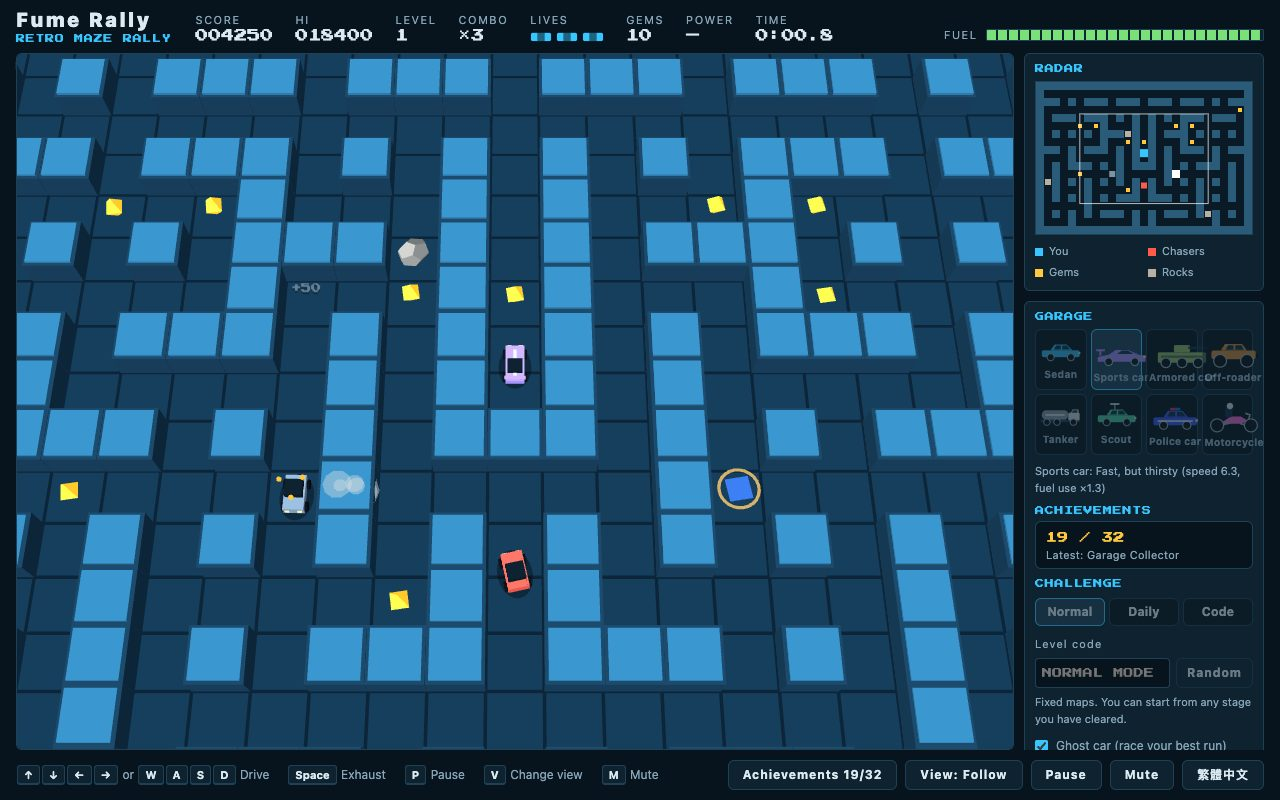
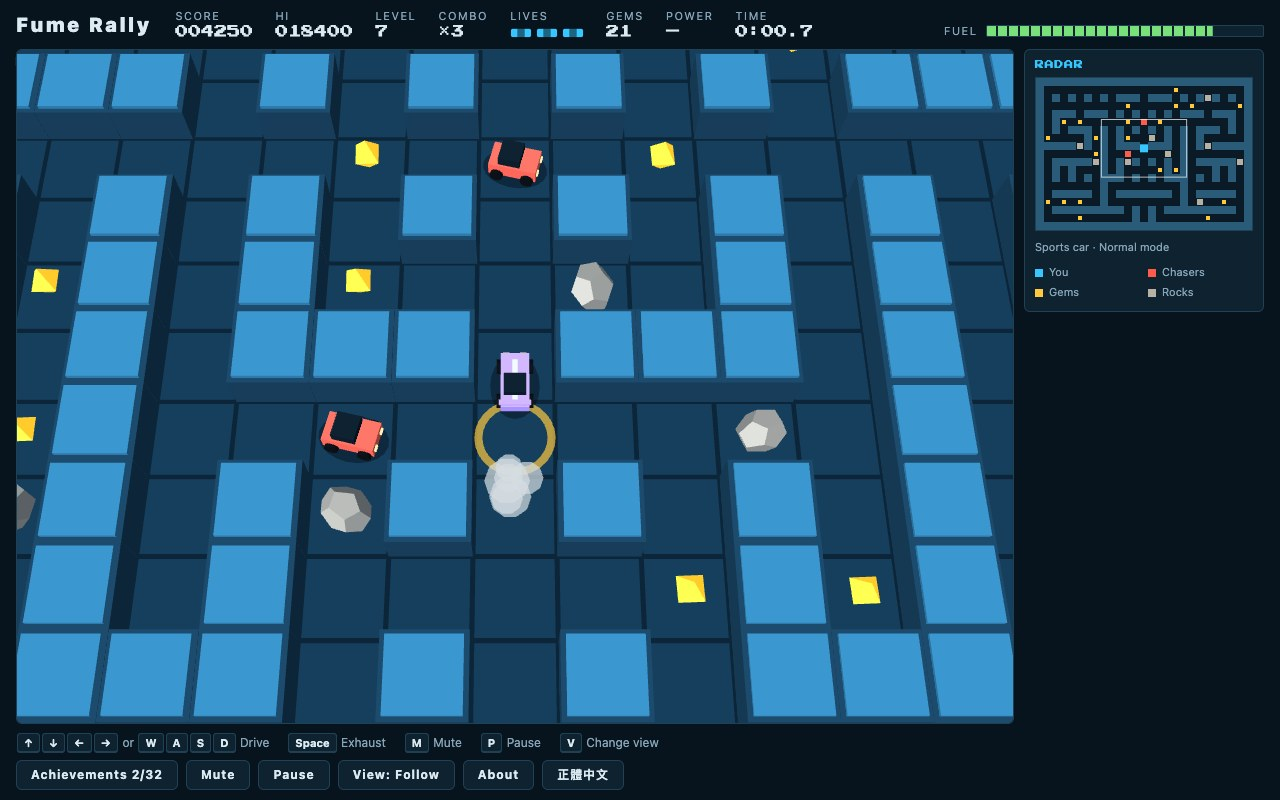
[doc] Refresh the README screenshot, drop the screenshots section and sort the folder list

diff --git a/README.md b/README.md
@@ -75,17 +75,9 @@ own leaderboard. Your fastest flawless clear of each stage is saved as a **ghost
 There are **32 achievements** to collect: seven stage trophies and 25 for everything from your first
 crash to a ten-thousand-point run.
 
-## Screenshots
-
-| Title screen                                | Achievements                                       |
-| ------------------------------------------- | -------------------------------------------------- |
-| ![Title screen](docs/screenshots/title.jpg) | ![Achievements](docs/screenshots/achievements.jpg) |
-
-<p align="center"><img src="docs/screenshots/mobile.jpg" alt="Playing on a phone" width="260"></p>
-
 ## Features
 
-- Seeded, symmetric mazes; the same level or code always plays the same.
+- Seeded, symmetric mazes that start small and open and grow twistier with the level; the same level or code always plays the same.
 - Eight cars with their own 3D models and abilities, and 32 achievements.
 - Daily challenge, shareable level codes, per-board leaderboards, flawless best times and ghost replay.
 - Full-map radar, follow and full-map cameras, screen shake (off with reduced-motion), floating score pop-ups.
@@ -113,19 +105,19 @@ The build output is one HTML file with all code, styles and the pixel font inlin
 double-clicking it.
 
 ```
+docs/       architecture notes and the screenshot
 src/
-  config/   constants, car definitions, achievement definitions
-  core/     pure, tested logic (RNG, maze generation, pathfinding, challenge codes, events)
-  sim/      the game rules: movement, chasers, fuel, gems, power-ups, phases (no DOM, no Three.js)
-  input/    keyboard, swipe and on-screen pad → one wanted direction
-  game/     glue: the game loop, progress, achievements, challenge selection
-  render/   Three.js scene, meshes, car models, effects and cameras
-  ui/       HUD, banners, panels, dialogs, icons
   audio/    synthesised sound effects and the mute setting
-  storage/  versioned records, ghosts and preferences in localStorage
+  config/   constants, car definitions, achievement definitions, About credits
+  core/     pure, tested logic (RNG, maze generation, pathfinding, challenge codes, events)
+  game/     glue: the game loop, progress, achievements, challenge selection
   i18n/     message tables (zh-TW, en)
-tests/      unit tests, plus parity checks against the original prototype
-docs/       architecture notes and screenshots
+  input/    keyboard, swipe and on-screen pad → one wanted direction
+  render/   Three.js scene, meshes, car models, effects and cameras
+  sim/      the game rules: movement, chasers, fuel, gems, power-ups, phases (no DOM, no Three.js)
+  storage/  versioned records, ghosts and preferences in localStorage
+  ui/       HUD, banners, panels, dialogs, icons
+tests/      unit tests
 ```
 
 New here? Read [docs/ARCHITECTURE.md](docs/ARCHITECTURE.md) and [CONTRIBUTING.md](CONTRIBUTING.md).
